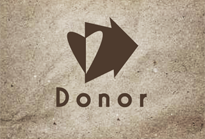
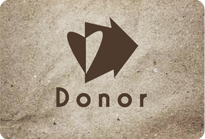
added rounded corner thumbnails in firefox

Changed region(s): [[0.9659, 0.0, 1.0, 1.0], [0.0, 0.9496, 0.0293, 1.0], [0.0, 0.0, 0.0293, 0.0576]]

diff --git a/portfolio/glucosense.html b/portfolio/glucosense.html
@@ -4,12 +4,12 @@ title: Glucosense
 ---
 
 <section id="siximages">
-  <a class='thumb' href='/images/portfolio/glucosense1.png'><img src="/images/portfolio/thumbnails/glucosense6.png"/></a>
-  <a class='thumb' href='/images/portfolio/glucosense2.png'><img class='thumb' src="/images/portfolio/thumbnails/glucosense2.png"/></a>
-  <a class='thumb' href='/images/portfolio/glucosense3.png'><img class='thumb' src="/images/portfolio/thumbnails/glucosense3.png"/></a>
-  <a class='thumb' href='/images/portfolio/glucosense4.png'><img src="/images/portfolio/thumbnails/glucosense1.png"/></a>
-  <a class='thumb' href='/images/portfolio/glucosense5.png'><img class='thumb' src="/images/portfolio/thumbnails/glucosense5.png"/></a>
-  <a class='thumb' href='/images/portfolio/glucosense6.png'><img class='thumb' src="/images/portfolio/thumbnails/glucosense4.png"/></a>
+  <a class='thumb' href='/images/portfolio/glucosense1.png'><img src="/images/thumbnails/glucosense6.png"/></a>
+  <a class='thumb' href='/images/portfolio/glucosense2.png'><img class='thumb' src="/images/thumbnails/glucosense2.png"/></a>
+  <a class='thumb' href='/images/portfolio/glucosense3.png'><img class='thumb' src="/images/thumbnails/glucosense3.png"/></a>
+  <a class='thumb' href='/images/portfolio/glucosense4.png'><img src="/images/thumbnails/glucosense1.png"/></a>
+  <a class='thumb' href='/images/portfolio/glucosense5.png'><img class='thumb' src="/images/thumbnails/glucosense5.png"/></a>
+  <a class='thumb' href='/images/portfolio/glucosense6.png'><img class='thumb' src="/images/thumbnails/glucosense4.png"/></a>
 </section>
 
 <section id='description' class='rounded_box'>

diff --git a/portfolio/soundstoppers.html b/portfolio/soundstoppers.html
@@ -4,9 +4,9 @@ title: Sound Stoppers
 ---
 
 <section id="threeimages">
-  <a class='thumb' href='/images/portfolio/soundstoppers.png'><img src="/images/portfolio/thumbnails/soundstoppers1.png"/></a>
-  <a class='thumb' href='/images/portfolio/soundstoppers2.png'><img class='thumb' src="/images/portfolio/thumbnails/soundstoppers2.png"/></a>
-  <a class='thumb' href='/images/portfolio/soundstoppers3.png'><img class='thumb' src="/images/portfolio/thumbnails/soundstoppers3.png"/></a>
+  <a class='thumb' href='/images/portfolio/soundstoppers.png'><img src="/images/thumbnails/soundstoppers.png"/></a>
+  <a class='thumb' href='/images/portfolio/soundstoppers2.png'><img class='thumb' src="/images/thumbnails/soundstoppers2.png"/></a>
+  <a class='thumb' href='/images/portfolio/soundstoppers3.png'><img class='thumb' src="/images/thumbnails/soundstoppers3.png"/></a>
 </section>
 
 <section id='description' class='rounded_box'>

diff --git a/index.html b/index.html
@@ -7,9 +7,9 @@ title: Portfolio
   <a href="portfolio/soundstoppers.html"><img src="images/thumbnails/soundstoppers.png"/></a>
   <a href="portfolio/mavensoft.html"><img src="images/thumbnails/mavensoft.png"/></a>
   <a href="portfolio/glucosense.html"><img src="images/thumbnails/glucosense.png"/></a>
-  <a href="portfolio/india.html"><img src="images/portfolio/thumbnails/india.png"/></a>
+  <a href="portfolio/india.html"><img src="images/thumbnails/india.png"/></a>
   <a href="portfolio/wine.html"><img src="images/thumbnails/christmaswine.png"/></a>
   <a href="portfolio/ignitious.html"><img src="images/thumbnails/ignitious.png"/></a>
   <a href="portfolio/donorcard.html"><img src="images/thumbnails/donor.png"/></a>
-  <a href="portfolio/stbc.html"><img src="images/portfolio/thumbnails/stbc.png"/></a>
+  <a href="portfolio/stbc.html"><img src="images/thumbnails/stbc.png"/></a>
 </section>

diff --git a/portfolio/india.html b/portfolio/india.html
@@ -4,9 +4,9 @@ title: "Millennium Goals: Education in India"
 ---
 
 <section id="threeimages">
-  <a class='thumb' href='/images/portfolio/india1.png'><img src="/images/portfolio/thumbnails/india.png"/></a>
-  <a class='thumb' href='/images/portfolio/india2.png'><img class='thumb' src="/images/portfolio/thumbnails/india2.png"/></a>
-  <a class='thumb' href='/images/portfolio/india3.png'><img class='thumb' src="/images/portfolio/thumbnails/india3.png"/></a>
+  <a class='thumb' href='/images/portfolio/india1.png'><img src="/images/thumbnails/india.png"/></a>
+  <a class='thumb' href='/images/portfolio/india2.png'><img class='thumb' src="/images/thumbnails/india2.png"/></a>
+  <a class='thumb' href='/images/portfolio/india3.png'><img class='thumb' src="/images/thumbnails/india3.png"/></a>
 </section>
 
 <section id='description' class='rounded_box'>

diff --git a/portfolio/stbc.html b/portfolio/stbc.html
@@ -4,9 +4,9 @@ title: Small Town vs. Big City
 ---
 
 <section id="threeimages">
-  <a class='thumb' href='/images/portfolio/stbc3.png'><img src="/images/portfolio/thumbnails/stbc.png"/></a>
-  <a class='thumb' href='/images/portfolio/stbc2.png'><img class='thumb' src="/images/portfolio/thumbnails/stbc2.png"/></a>
-  <a class='thumb' href='/images/portfolio/stbc1.png'><img class='thumb' src="/images/portfolio/thumbnails/stbc3.png"/></a>
+  <a class='thumb' href='/images/portfolio/stbc3.png'><img src="/images/thumbnails/stbc.png"/></a>
+  <a class='thumb' href='/images/portfolio/stbc2.png'><img class='thumb' src="/images/thumbnails/stbc2.png"/></a>
+  <a class='thumb' href='/images/portfolio/stbc1.png'><img class='thumb' src="/images/thumbnails/stbc3.png"/></a>
 </section>
 
 <section id='description' class='rounded_box'>

diff --git a/portfolio/wine.html b/portfolio/wine.html
@@ -4,9 +4,9 @@ title: Christmas Dinner Wine
 ---
 
 <section id="threeimages">
-  <a class='thumb' href='/images/portfolio/wine1.png'><img src="/images/portfolio/thumbnails/wine1.png"/></a>
-  <a class='thumb' href='/images/portfolio/wine2.png'><img class='thumb' src="/images/portfolio/thumbnails/wine2.png"/></a>
-  <a class='thumb' href='/images/portfolio/wine4.png'><img class='thumb' src="/images/portfolio/thumbnails/wine3.png"/></a>
+  <a class='thumb' href='/images/portfolio/wine1.png'><img src="/images/thumbnails/wine1.png"/></a>
+  <a class='thumb' href='/images/portfolio/wine2.png'><img class='thumb' src="/images/thumbnails/wine2.png"/></a>
+  <a class='thumb' href='/images/portfolio/wine4.png'><img class='thumb' src="/images/thumbnails/wine3.png"/></a>
 </section>
 
 <section id='description' class='rounded_box'>

diff --git a/portfolio/mavensoft.html b/portfolio/mavensoft.html
@@ -5,7 +5,7 @@ title: Maven-soft Web Development
 
 <section id="oneimage">
   <div class='rounded_box'>
-    <img src="/images/fullscreen/mavensoft.png"/>
+    <img src="/images/portfolio/mavensoft.png"/>
     <h1>Maven-Soft Web Development</h1>
     <h2>2008</h2>
     <p>Logo, branding, and business card design for a small web development company that works with small businesses to create websites.</p>

diff --git a/portfolio/donorcard.html b/portfolio/donorcard.html
@@ -5,7 +5,7 @@ title: Donor Card
 
 <section id="oneimage">
   <div class='rounded_box'>
-    <img src="/images/fullscreen/donor.png"/>
+    <img src="/images/portfolio/donor.png"/>
     <h1>Donor Card</h1>
     <h2>2010</h2>
     <p>A logo and identity system for promoting organ donation.</p>

diff --git a/resume.html b/resume.html
@@ -47,5 +47,5 @@ title: Resume
   </ul>
   </br>
   <span>
-    <a href="resume.pdf"><h2>Download my resume as a .pdf</h2></a>
+    <a href="resume.pdf" target="_blank"><h2>Download my resume as a .pdf</h2></a>
 </section>
